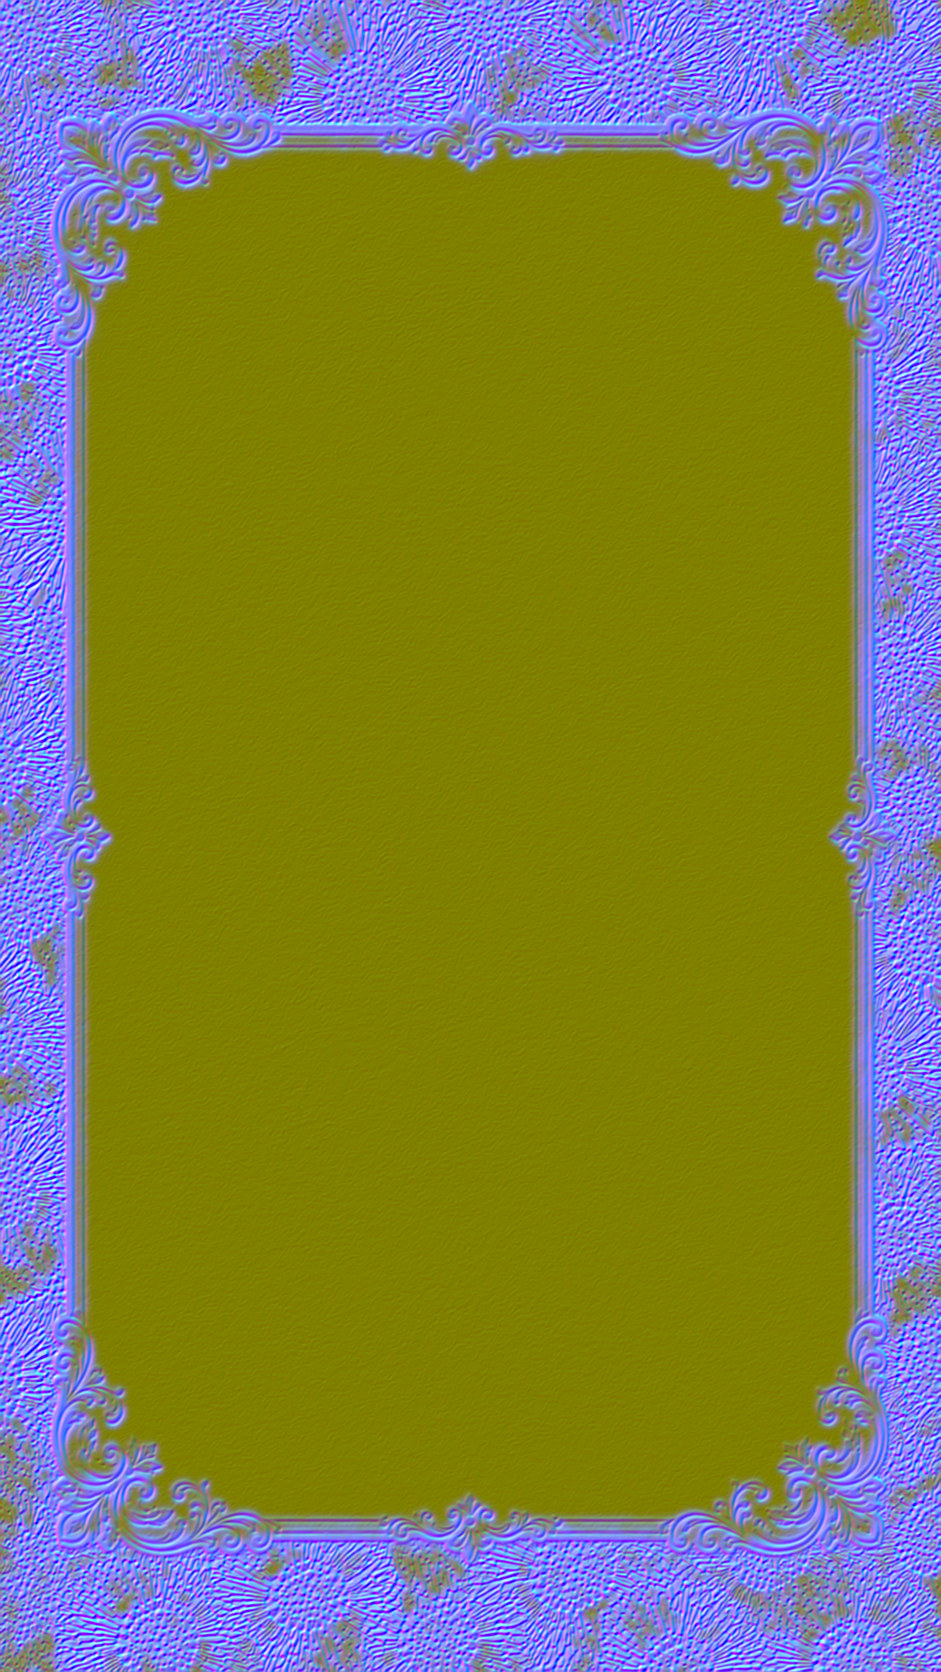
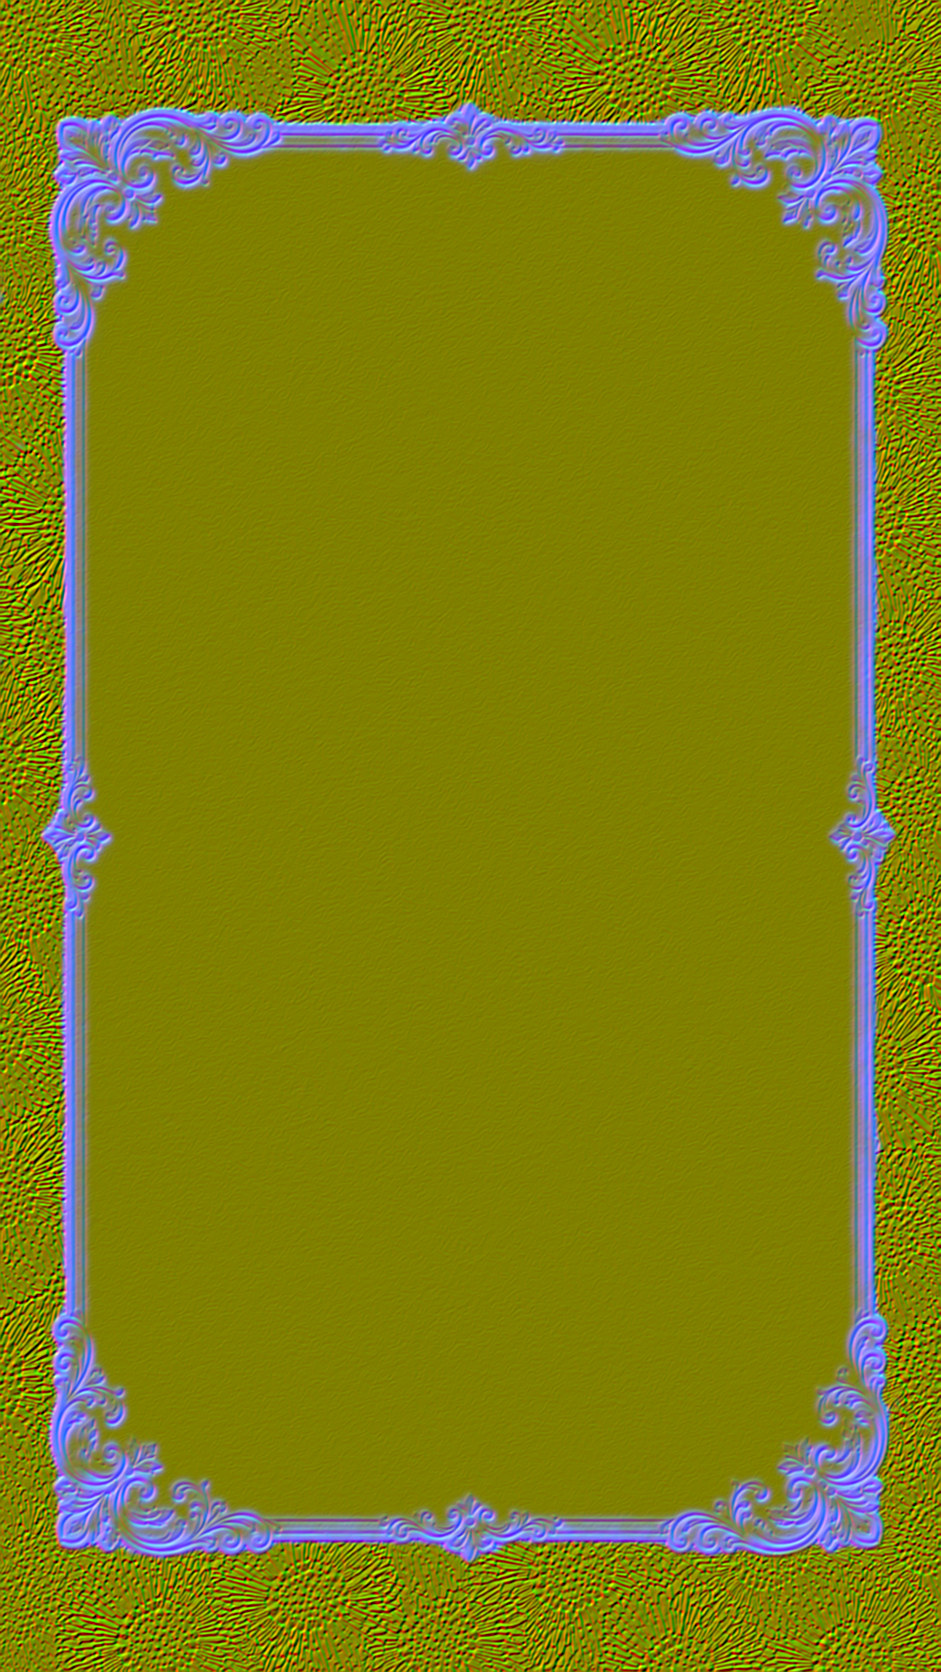
wedding3: 9 shine presets, frame-only embossing (no flowers)

Changed region(s): [[0.0, 0.0, 1.0, 1.0]]

diff --git a/wedding3/index.html b/wedding3/index.html
@@ -127,6 +127,15 @@
     .relief{ position:absolute; inset:0; width:100%; height:100%; display:block; opacity:0; transition:opacity .6s var(--ease); }
     .relief.ready{ opacity:1; }
     .tune__menu{ max-height:calc(100vh - 80px); overflow-y:auto; }
+    .presets{ display:grid; grid-template-columns:repeat(3,1fr); gap:.4rem; margin-top:.55rem; }
+    .preset{ font:600 .6rem/1.2 var(--font-sans); letter-spacing:.04em; padding:.55rem .2rem; border-radius:10px; cursor:pointer;
+      border:1px solid rgba(90,74,44,.25); background:rgba(255,255,255,.35); color:#5a4a2c; }
+    .preset[aria-pressed="true"]{ background:#8a6a2c; border-color:#8a6a2c; color:#fff; }
+    .fine summary{ cursor:pointer; list-style:none; }
+    .fine summary::-webkit-details-marker{ display:none; }
+    .fine summary::after{ content:" +"; }
+    .fine[open] summary::after{ content:" −"; }
+    .tune__sep--first{ margin-top:0; padding-top:0; border-top:0; }
     .tune__sep{ margin:.9rem 0 0; padding-top:.7rem; border-top:1px solid rgba(90,74,44,.15); font-size:.58rem; letter-spacing:.14em; text-transform:uppercase; opacity:.55; }
 
     @media (prefers-reduced-motion:reduce){ .fade{ animation:none; } }
@@ -161,16 +170,19 @@
       <svg viewBox="0 0 24 24" fill="none" stroke="currentColor" stroke-width="1.8" stroke-linecap="round" aria-hidden="true"><path d="M4 7h10M18 7h2M4 17h2M10 17h10"/><circle cx="16" cy="7" r="2"/><circle cx="8" cy="17" r="2"/></svg>
     </button>
     <div class="tune__menu" id="tuneMenu">
+      <p class="tune__sep tune__sep--first">Presets</p>
+      <div class="presets" id="presets"></div>
+      <details class="fine">
+      <summary class="tune__sep">Fine-tune</summary>
       <label><span class="tune__row">Shine <output data-for="strength"></output></span><input type="range" data-key="strength" min="0" max="100" step="1"></label>
       <label><span class="tune__row">Light size <output data-for="size"></output></span><input type="range" data-key="size" min="10" max="45" step="1"></label>
       <label><span class="tune__row">Tilt sensitivity <output data-for="sens"></output></span><input type="range" data-key="sens" min="0" max="100" step="1"></label>
       <label><span class="tune__row">Speed <output data-for="speed"></output></span><input type="range" data-key="speed" min="2" max="30" step="1"></label>
       <label><span class="tune__row">Band rotation <output data-for="turn"></output></span><input type="range" data-key="turn" min="0" max="100" step="1"></label>
-      <p class="tune__sep">Embossing</p>
+      <p class="tune__sep">Frame</p>
       <label><span class="tune__row">Foil on lines <output data-for="relief"></output></span><input type="range" data-key="relief" min="0" max="100" step="1"></label>
       <label><span class="tune__row">Edge flashes <output data-for="flash"></output></span><input type="range" data-key="flash" min="0" max="100" step="1"></label>
-      <label><span class="tune__row">Frame <output data-for="frame"></output></span><input type="range" data-key="frame" min="0" max="100" step="1"></label>
-      <label><span class="tune__row">Flowers <output data-for="flowers"></output></span><input type="range" data-key="flowers" min="0" max="100" step="1"></label>
+      </details>
       <button class="tune__reset" id="tuneReset" type="button">Reset</button>
     </div>
   </div>
@@ -191,8 +203,20 @@
       var gotSensor = false, lastPointer = 0;
 
       /* ---- tunable settings (remembered per browser) ---- */
-      var DEFAULTS = { strength: 70, size: 16, sens: 70, speed: 12, turn: 60, relief: 70, flash: 70, frame: 100, flowers: 70 };
-      var KEY = 'wedding3-shine-v1';
+      var PRESETS = [
+        { name: 'Whisper',     strength: 40,  size: 14, sens: 55, speed: 9,  turn: 40,  relief: 45,  flash: 35 },
+        { name: 'Satin',       strength: 55,  size: 20, sens: 60, speed: 10, turn: 50,  relief: 55,  flash: 50 },
+        { name: 'Classic',     strength: 70,  size: 16, sens: 70, speed: 12, turn: 60,  relief: 70,  flash: 70 },
+        { name: 'Candlelight', strength: 60,  size: 26, sens: 50, speed: 6,  turn: 35,  relief: 65,  flash: 45 },
+        { name: 'Brushed',     strength: 65,  size: 22, sens: 65, speed: 12, turn: 100, relief: 80,  flash: 55 },
+        { name: 'Gilded',      strength: 60,  size: 16, sens: 70, speed: 12, turn: 60,  relief: 100, flash: 95 },
+        { name: 'Mirror',      strength: 90,  size: 10, sens: 85, speed: 18, turn: 60,  relief: 75,  flash: 90 },
+        { name: 'Sparkle',     strength: 75,  size: 12, sens: 80, speed: 16, turn: 80,  relief: 70,  flash: 100 },
+        { name: 'Dramatic',    strength: 100, size: 18, sens: 90, speed: 22, turn: 80,  relief: 90,  flash: 100 }
+      ];
+      var settingsOf = function(p){ var o = Object.assign({}, p); delete o.name; o.preset = p.name; return o; };
+      var DEFAULTS = settingsOf(PRESETS[2]);
+      var KEY = 'wedding3-shine-v2';
       var cfg = Object.assign({}, DEFAULTS);
       try { Object.assign(cfg, JSON.parse(localStorage.getItem(KEY) || '{}')); } catch(e){}
 
@@ -220,7 +244,15 @@
 
       var tune = document.getElementById('tune'), tuneBtn = document.getElementById('tuneBtn');
       var inputs = Array.prototype.slice.call(tune.querySelectorAll('input[data-key]'));
+      var presetBox = document.getElementById('presets');
+      PRESETS.forEach(function(p){
+        var b = document.createElement('button');
+        b.type = 'button'; b.className = 'preset'; b.textContent = p.name;
+        b.addEventListener('click', function(){ cfg = settingsOf(p); syncInputs(); applyFoil(); save(); });
+        presetBox.appendChild(b);
+      });
       function syncInputs(){
+        Array.prototype.forEach.call(presetBox.children, function(b){ b.setAttribute('aria-pressed', b.textContent === cfg.preset); });
         inputs.forEach(function(inp){
           inp.value = cfg[inp.dataset.key];
           tune.querySelector('output[data-for="' + inp.dataset.key + '"]').textContent = cfg[inp.dataset.key];
@@ -230,6 +262,7 @@
       inputs.forEach(function(inp){
         inp.addEventListener('input', function(){
           cfg[inp.dataset.key] = +inp.value;
+          if (cfg.preset){ cfg.preset = ''; syncInputs(); }       /* hand-tuned: no preset highlighted */
           tune.querySelector('output[data-for="' + inp.dataset.key + '"]').textContent = inp.value;
           applyFoil(); save();
         });
@@ -323,7 +356,7 @@
           'uniform vec4 uDeck;',                                  /* deck rect in CSS px: left, top, width, height */
           'uniform vec2 uHotPos, uBandC, uDir;',
           'uniform vec3 uHot;',
-          'uniform float uHotA, uMidA, uRad, uLen, uAmt, uFlash, uFrame, uFlower, uDist;',
+          'uniform float uHotA, uMidA, uRad, uLen, uAmt, uFlash, uDist;',
           'void main(){',
           '  vec3 base = texture2D(uBase, v).rgb;',
           '  vec3 rel = texture2D(uRelief, v).rgb;',
@@ -339,8 +372,7 @@
           '  foil *= mix(1., lum / .82, .6);',
           /* only on the embossed lines: where the relief map has a slope */
           '  float edge = smoothstep(.06, .45, length(rel.rg * 2. - 1.));',
-          '  float sage = 1. - smoothstep(.70, .80, lum);',     /* flower texture is darker than the cream frame */
-          '  float w = rel.b * edge * mix(uFrame, uFlower, sage);',
+          '  float w = rel.b * edge;',                          /* B is already frame-only (no flowers) */
           /* mirror flash: flat foil reflects the light right at the hotspot; away from it, only
              edges tilted toward the hotspot can bounce the light into the eye */
           '  vec3 N = normalize(vec3(-(rel.rg * 2. - 1.) * 1.3, 1.));',
@@ -365,7 +397,7 @@
         gl.vertexAttribPointer(loc, 2, gl.FLOAT, false, 0, 0);
 
         var U = {};
-        ['uBase','uRelief','uPal','uDeck','uHotPos','uBandC','uDir','uHot','uHotA','uMidA','uRad','uLen','uAmt','uFlash','uFrame','uFlower','uDist']
+        ['uBase','uRelief','uPal','uDeck','uHotPos','uBandC','uDir','uHot','uHotA','uMidA','uRad','uLen','uAmt','uFlash','uDist']
           .forEach(function(n){ U[n] = gl.getUniformLocation(prog, n); });
         gl.uniform1i(U.uBase, 0); gl.uniform1i(U.uRelief, 1); gl.uniform1i(U.uPal, 2);
 
@@ -435,7 +467,7 @@
           draw: function(lx, ly, ang, bcx, bcy){
             if (!ready) return;
             var r = deck.getBoundingClientRect();
-            var key = [lx.toFixed(1), ly.toFixed(1), ang.toFixed(2), foil.v, r.width, r.height, cfg.relief, cfg.flash, cfg.frame, cfg.flowers, cfg.size, cfg.strength].join();
+            var key = [lx.toFixed(1), ly.toFixed(1), ang.toFixed(2), foil.v, r.width, r.height, cfg.relief, cfg.flash, cfg.size, cfg.strength].join();
             if (key === last) return;                 /* nothing moved: skip the redraw */
             last = key;
             if (palV !== foil.v) uploadPalette();
@@ -453,8 +485,6 @@
             gl.uniform1f(U.uAmt, cfg.relief / 100);
             gl.uniform1f(U.uFlash, cfg.flash / 100);
             gl.uniform1f(U.uDist, .7 * Math.max(vw, vh));
-            gl.uniform1f(U.uFrame, cfg.frame / 100);
-            gl.uniform1f(U.uFlower, cfg.flowers / 100);
             gl.drawArrays(gl.TRIANGLE_STRIP, 0, 4);
             cvs.classList.add('ready');
           }

diff --git a/wedding3/tools/make_normals.py b/wedding3/tools/make_normals.py
@@ -2,7 +2,8 @@
 
 For every bg-*.jpg this writes bg-*-relief.jpg:
   R, G = surface slope (x, y) of the embossing, 128 = flat
-  B    = relief mask, 0 on the flat paper and 255 on embossed lines
+  B    = relief mask, 0 on the flat paper and the sage flower texture, 255 on the
+         embossed cream frame
 
 The embossing is only visible as light/dark edges, so the image's own luminance
 (band-passed to drop the paper grain and the slow lighting falloff) is treated as a
@@ -37,6 +38,12 @@ for path in sorted(glob.glob("bg-[0-9]*x[0-9]*.jpg")):
     lo, hi = np.percentile(energy, 45), np.percentile(energy, 85)
     mask = np.clip((energy - lo) / (hi - lo), 0, 1)
     mask = ndimage.gaussian_filter(mask * mask * (3 - 2 * mask), 2)
+
+    # frame only: the cream frame is clearly lighter than the sage flowers once blurred
+    # (flowers top out near 0.72, the frame starts around 0.74)
+    region = ndimage.gaussian_filter(lum, 5)
+    frame = np.clip((region - 0.712) / (0.745 - 0.712), 0, 1)
+    mask *= ndimage.gaussian_filter(frame * frame * (3 - 2 * frame), 1.5)
 
     out = np.stack([sx * 0.5 + 0.5, sy * 0.5 + 0.5, mask], axis=-1)
     name = path.replace(".jpg", "-relief.jpg")
